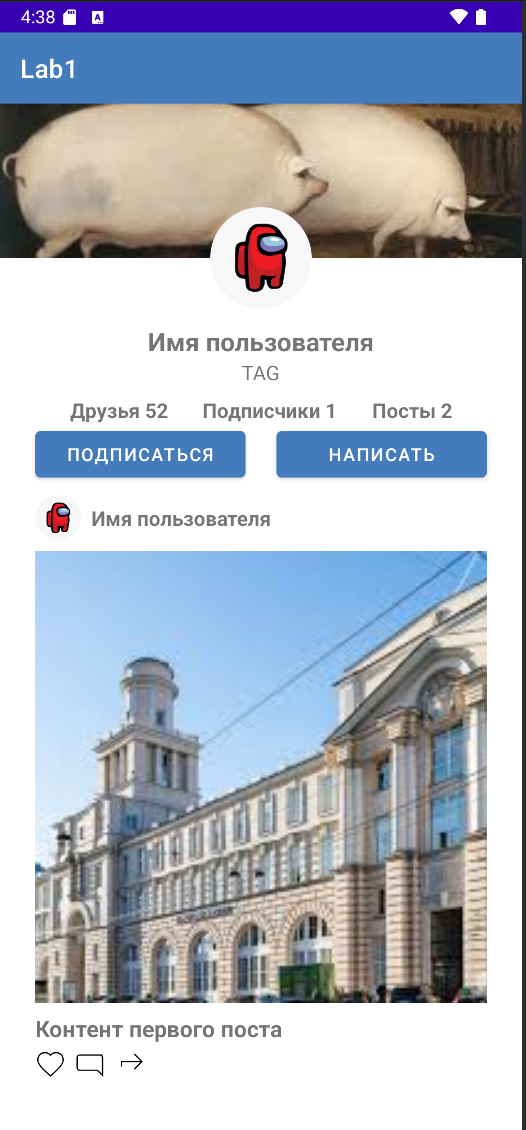
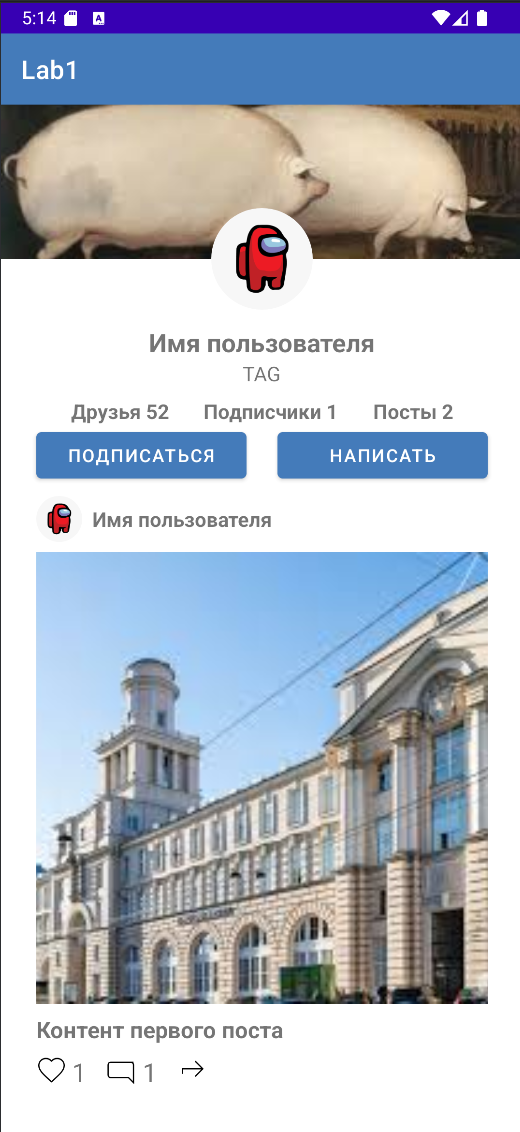
feat: add like and comment counters

diff --git a/README.md b/README.md
@@ -1,4 +1,5 @@
 ![screen.png](screen.png)
+![screen2.png](screen2.png)
 
 # **Лабораторная работа №1**  
 **Тема:** Верстка и UI в Android  